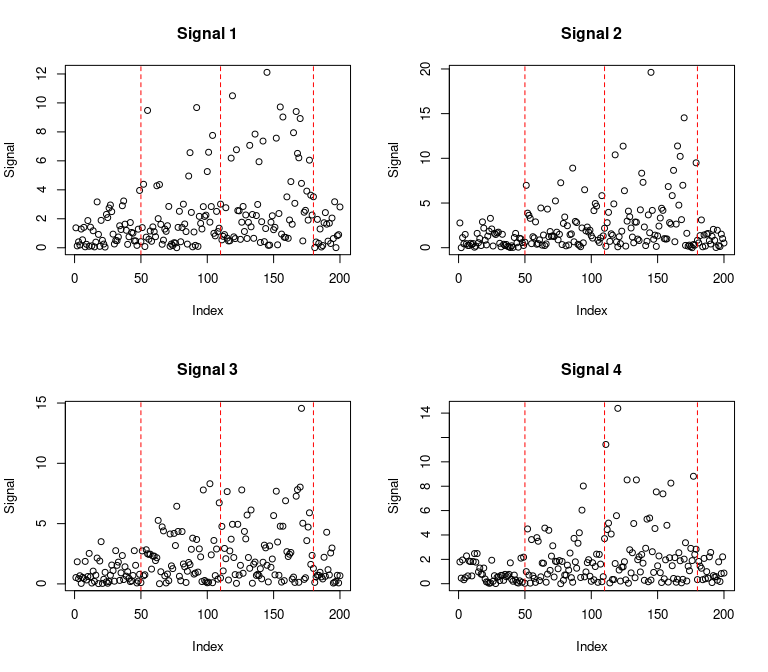
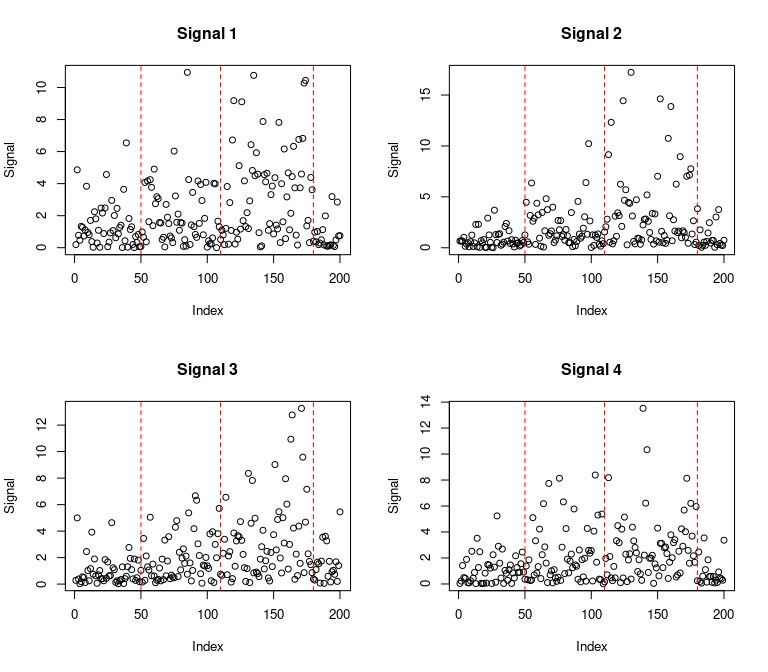
docs: updating vignettes to frv usage

diff --git a/README.md b/README.md
@@ -60,7 +60,7 @@ distributions.
 
 ``` r
 library(blockcpd)
-set.seed(204)
+set.seed(42)
 parameters = list(scale = c(1, 2, 3, 1))
 
 # nrow = number of signals
@@ -95,11 +95,11 @@ We will better discuss the penalization constant and maximum blocks in
 the next section.
 
 Lets fit the model using “hierseg” (default), the “exponential” family,
-penalization constant equals 1 and default default penalization.
+penalization constant equals 1.73 and default penalization.
 
 ``` r
   seg_model = fit_blockcpd(sim_df$data_matrix, family = "exponential", 
-                           lambda = 1)
+                           lambda = 1.73)
 ```
 
 The return object is a S3 class called `blockcpd`. It contains the
@@ -138,10 +138,10 @@ In order to avoid over segmentation, two parameters can be used: the
 penalization constant (the `lambda` argument in `fit_blockcpd`) and the
 maximum number of blocks (the `max_blocks` argument).
 
-If we used 0.1 as the penalization constant, we would have detected 86
-blocks, a clear over-segmentation! However, we only know it would be a
-over-segmentation because we simulated the data. We need an data-driven
-approach to select lambda.
+If we used a very small value for the penalization constant, we would
+have detected many blocks, reaching a over-segmentation! However, we
+only know it would have been a over-segmentation because we simulated
+the data. We need an data-driven approach to select lambda.
 
 The constant has to be chosen carefully. A common approach is to use an
 adaptation of the [elbow
@@ -150,9 +150,13 @@ heuristics. A graphic of how the number of detect blocks varies with the
 penalization constant lambda is constructed, and then we try to visually
 select a value in which the curve “flats out” after it.
 
-The package provides the `elbow_plot` function which constructs the plot
-given the data set and model arguments. The model arguments must be
-passed as a list, and the constant value should *not* be included.
+The package provides the `select_frv` function. The first function uses
+a methodology similar to the described above in order to observe how the
+estimated number of change-points vary with the penalization constant.
+The main advantage is that it provides an automatic suggestion for the
+best regularization constant, number of change-points and model.
+Optionally, the user can call the `plot` function on its output in order
+to do graphical inspection.
 
 ``` r
   model_args = list(family = "exponential") # do not include lambda!
@@ -160,24 +164,24 @@ passed as a list, and the constant value should *not* be included.
   # search space for lambda
   lambda_left = 0
   lambda_right = 5
-  step = 0.5 # distance between lambda values
+  step = "automatic" # can also be set to any numeric value
   
-  # creates the plot and returns output related to the plot 
-  # If no return value is passed (no 'ep_info' on the left), then it only
-  # plots 
-  ep_info = elbow_plot(sim_df$data_matrix, lambda_left = lambda_left,
-                       lambda_right = lambda_right, step = step,
-                       model_args = model_args)
+  # uses the data and passed arguments to fit the curve and suggested values
+  frv = select_frv(sim_df$data_matrix, lambda_left = lambda_left, step = step,
+                   lambda_right = lambda_right, 
+                   model_args = model_args)
+  
+  # plots the curve if the user prefers to perform graphical inspection
+  plot(frv)
 ```
 
 ![](README_files/figure-gfm/unnamed-chunk-8-1.png)<!-- -->
 
-A simple function call plots the result. If the user passes a variable
-for assignment, the function returns additional information. The
-function also makes an “educated guess” on the value of the constant, in
-this case 1, justifying the value we used on the beginning. **Do not
-restrict yourself to the suggestion, specially for very small values of
-step.**
+The function suggests an approximate value of 1.73 for the penalization
+constant, justifying the value we used on the beginning. Plotting the
+result is optional, but it can aid when the automatic suggestion fails.
+**Do not restrict yourself to the suggestion, specially for very small
+values of step.**
 
 Another way to control over-segmentation is using the `max_blocks`
 argument. When working with a large number of variables, if there is no
@@ -211,7 +215,7 @@ fitted model.
 
 ``` r
   seg_model = fit_blockcpd(sim_df$data_matrix, family = "exponential", 
-                           lambda = 1, 
+                           lambda = frv$suggested_lambda, 
                            bootstrap = TRUE, bootstrap_samples = 200L)
   confidence_plot(seg_model, scale = "percentage")
 ```
@@ -223,7 +227,7 @@ The dashed vertical red lines shows the location of the final detected
 change-points.
 
 In this example, it is strongly suggested that 50 and 180 are true
-change-points, but 110 also has a high detection value near 80%. Other
+change-points, but 110 also has a high detection value near 50%. Other
 indices have somewhat low detection rates, suggesting that we indeed
 only have 3 change-points. Notice that this plot can also aid us in
 deciding if a given region has a change-point.
@@ -231,7 +235,7 @@ deciding if a given region has a change-point.
 ### Recommendation for datasets with large number of variables
 
 To reduce run-time on large datasets, we recommend using the `hierseg`
-method when using `fit_blockcpd` and `elbow_plot`. It is also advisable
+method when using `fit_blockcpd` and `select_frv`. It is also advisable
 to set small values for `max_blocks`, not only for time issues but also
 to avoid over-segmentation.
 
